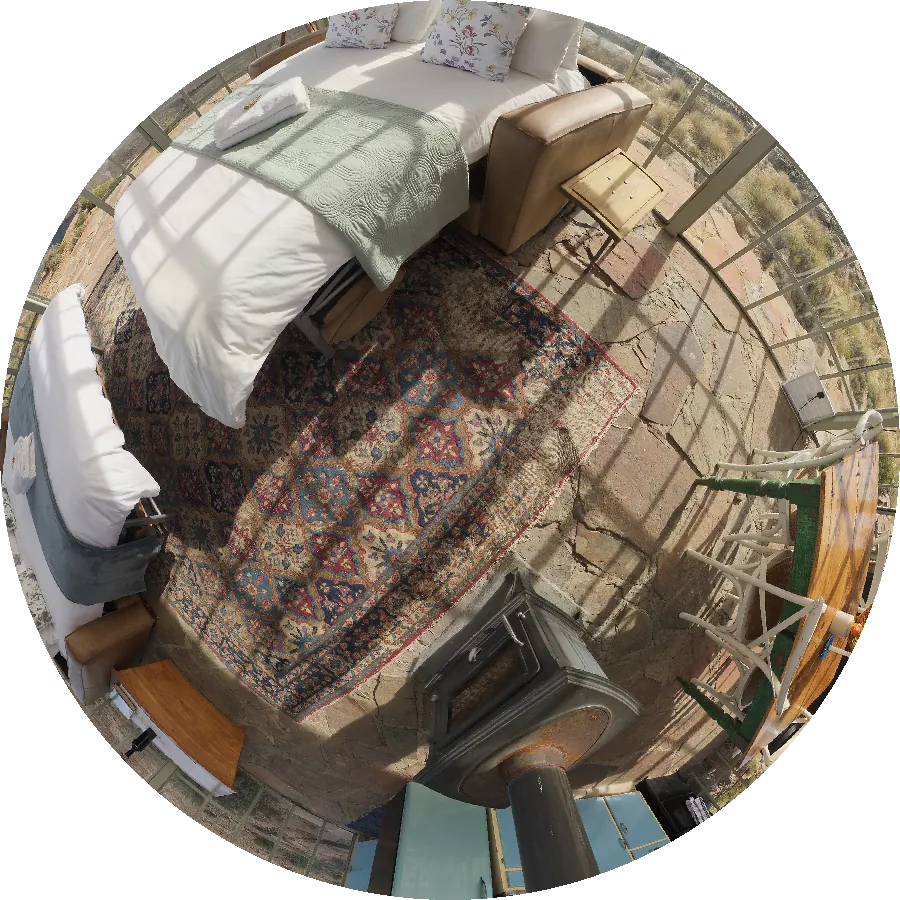
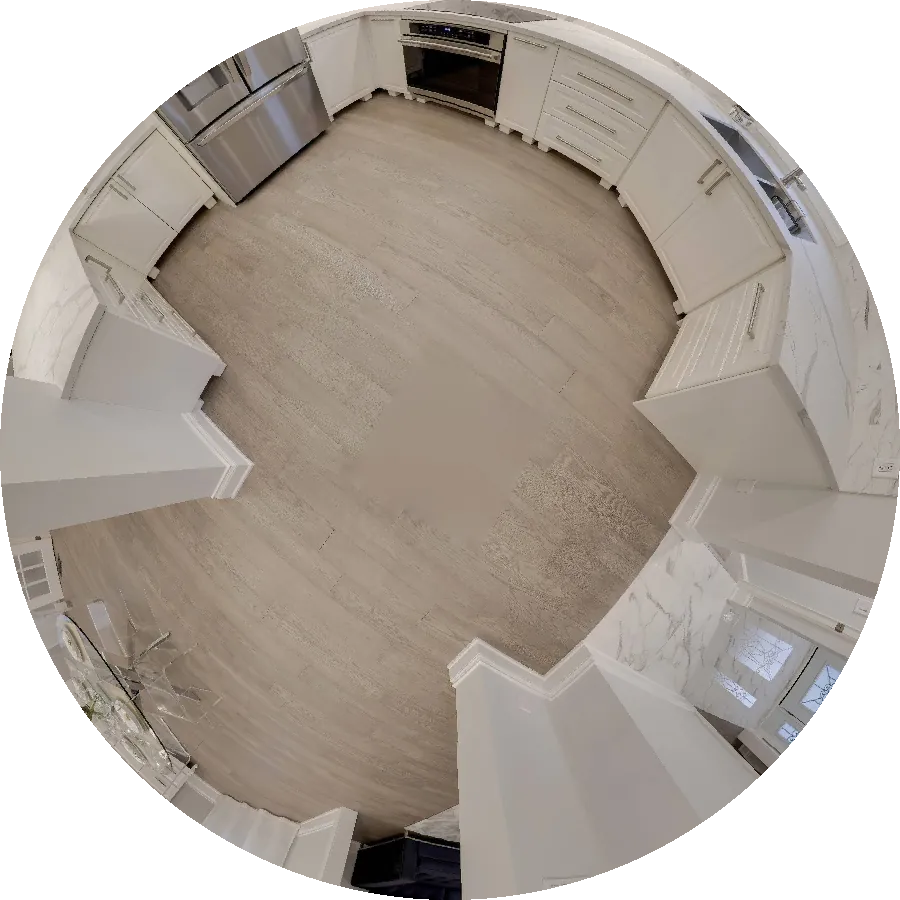
feat: hero uses a staged kitchen from the GoThru Real Estate tour
One house across the page: hero, connector demo, pipeline photo and the tour at the end.

diff --git a/index.html b/index.html
@@ -90,7 +90,7 @@ p{margin:0}
 .hud__cone{position:absolute;left:0;top:0;width:100%;height:50%;background:rgba(37,99,235,.55);clip-path:polygon(50% 100%,18% 0,82% 0)}
 .hud__dot{position:absolute;left:50%;top:50%;width:16px;height:16px;margin:-8px 0 0 -8px;border-radius:50%;background:#2563eb;box-shadow:0 0 0 3px #fff}
 .hud b{display:block;font-size:.9375rem}
-.hero__copy{position:absolute;z-index:3;left:clamp(24px,5vw,72px);bottom:clamp(28px,5vw,72px);width:min(640px,52%);color:#fff;pointer-events:none}
+.hero__copy{position:absolute;z-index:3;left:clamp(24px,5vw,72px);bottom:clamp(28px,5vw,72px);width:min(820px,56%);color:#fff;pointer-events:none}
 .hero__copy a{pointer-events:auto}
 .hero__badge{display:inline-flex;align-items:center;gap:10px;padding:7px 14px 7px 7px;border-radius:999px;font:600 .875rem/1 var(--text)}
 .hero__badge img{width:26px;height:26px;border-radius:8px}
@@ -284,7 +284,7 @@ footer{background:var(--ink);color:#fff;margin-top:clamp(88px,11vw,160px);paddin
 .mod__list .is-done .mod__ico{background:var(--teal-d);box-shadow:none}
 .mod__list .is-done .mod__ico::after{opacity:1;transform:rotate(45deg)}
 .mod__shot{position:relative;aspect-ratio:4/3;border-radius:var(--r-xl);overflow:hidden;background:#2b241c}
-.mod__shot img{width:100%;height:100%;object-fit:cover;object-position:0 50%}
+.mod__shot img{width:100%;height:100%;object-fit:cover;object-position:33% 50%}
 .mod__status{position:absolute;top:20px;left:20px;display:inline-flex;align-items:center;gap:10px;padding:12px 16px;border-radius:999px;background:#fff;font:700 .9375rem/1 var(--text);box-shadow:0 14px 30px -14px rgba(22,24,29,.5)}
 .mod__room{position:absolute;left:30%;top:52%;padding:10px 16px;border-radius:999px;background:var(--yellow);font:800 1.125rem/1 var(--display);letter-spacing:-.01em;opacity:0;transform:translateY(10px) scale(.96);transition:opacity .3s ease,transform .45s var(--ease-out)}
 .mod__shot[data-stage="3"] .mod__room,.mod__shot[data-stage="4"] .mod__room{opacity:1;transform:none}
@@ -391,16 +391,16 @@ footer{background:var(--ink);color:#fff;margin-top:clamp(88px,11vw,160px);paddin
       <div class="pano__track" id="pano-track">
         <div class="pano__copy">
           <img src="img/pano-home.webp" width="3840" height="797" alt="" draggable="false" fetchpriority="high">
-          <button class="hot" type="button" style="--x:.44;--y:.6" data-x=".44"><span>2</span><em>Photo 2 · Bedroom</em></button>
-          <button class="hot" type="button" style="--x:.81;--y:.62" data-x=".81"><span>3</span><em>Photo 3 · Dining</em></button>
-          <button class="hot" type="button" style="--x:.92;--y:.56" data-x=".92"><span>4</span><em>Photo 4 · Kitchen</em></button>
+          <button class="hot" type="button" style="--x:.13;--y:.62" data-x=".13"><span>2</span><em>Photo 2 · Dining room</em></button>
+          <button class="hot" type="button" style="--x:.42;--y:.62" data-x=".42"><span>3</span><em>Photo 3 · Kitchen</em></button>
+          <button class="hot" type="button" style="--x:.84;--y:.58" data-x=".84"><span>4</span><em>Photo 4 · Front hall</em></button>
         </div>
       </div>
       <div class="pano__scrim" aria-hidden="true"></div>
       <span class="pano__hint glass" id="pano-hint" aria-hidden="true"><svg viewBox="0 0 24 24" fill="none" stroke="currentColor" stroke-width="2" stroke-linecap="round" stroke-linejoin="round"><path d="M8 13V5.5a1.5 1.5 0 0 1 3 0V12m0-1.5v-2a1.5 1.5 0 0 1 3 0V12m0-1a1.5 1.5 0 0 1 3 0v1m0 0a1.5 1.5 0 0 1 3 0v3a6 6 0 0 1-6 6h-2a6 6 0 0 1-5-2.7L3.4 15a1.6 1.6 0 0 1 2.5-2L8 15"/></svg>Drag to look around</span>
       <div class="hud glass" aria-hidden="true">
         <div class="hud__disc"><img id="hud-img" src="img/lookdown-home.webp" width="900" height="900" alt=""><i class="hud__cone"></i><i class="hud__dot"></i></div>
-        <span>You are at photo 1<b id="hud-label">Facing the bed</b></span>
+        <span>You are at photo 1<b id="hud-label">Facing the dining room</b></span>
       </div>
       <div class="hero__copy">
         <span class="hero__badge glass" data-in><img src="img/brand/icon.webp" width="255" height="255" alt="">GoThru 360 Virtual Tour Maker</span>
@@ -469,7 +469,7 @@ footer{background:var(--ink);color:#fff;margin-top:clamp(88px,11vw,160px);paddin
         </ol>
       </div>
       <figure class="mod__shot" id="mod-shot" data-stage="0" data-rise style="--d:1">
-        <img src="img/tour-bedroom.webp" width="3072" height="638" loading="lazy" alt="A bedroom photo on its way through the pipeline">
+        <img src="img/pipeline-bedroom.webp" width="3072" height="638" loading="lazy" alt="A bedroom photo on its way through the pipeline">
         <span class="mod__status"><i class="dot" aria-hidden="true"></i><span id="mod-status">Received · 12 photos with GPS</span></span>
         <span class="mod__room" aria-hidden="true">Bedroom</span>
         <span class="mod__bar" aria-hidden="true"><i></i></span>
@@ -481,15 +481,15 @@ footer{background:var(--ink);color:#fff;margin-top:clamp(88px,11vw,160px);paddin
   <section class="try" id="try" aria-labelledby="try-h">
     <div>
       <h2 id="try-h" class="h2" data-rise>Line it up.<br><span class="c-yellow">Try it here.</span></h2>
-      <p class="lead" data-rise style="--d:1">Each 360 photo is shown from above, floor in the middle. Drag the top photo until the carpet runs along the blue line. That is a connection.</p>
-      <p class="try__status" aria-live="polite" data-rise style="--d:2"><i></i><span id="status">Drag photo 1 to line up the carpet.</span></p>
+      <p class="lead" data-rise style="--d:1">Each 360 photo is shown from above, floor in the middle. Drag the top photo until the hallway runs along the blue line. That is a connection.</p>
+      <p class="try__status" aria-live="polite" data-rise style="--d:2"><i></i><span id="status">Drag photo 1 to line up the hallway.</span></p>
       <div class="try__ctrls" data-rise style="--d:3">
         <button class="btn btn--paper" id="switch" type="button">Switch image</button>
         <button class="btn btn--paper" id="reset" type="button">Start over</button>
         <label for="rot">Rotate photo <span id="rot-n">1</span><output id="rot-val" for="rot">74°</output></label>
         <input type="range" id="rot" min="-180" max="180" step="1" value="74">
       </div>
-      <p class="try__note">A working copy of the app's 360 Image Connector. Both photos use one public panorama, credited below.</p>
+      <p class="try__note">A working copy of the app's 360 Image Connector. Both photos use one panorama from the GoThru tour below.</p>
     </div>
     <div class="app" data-rise style="--d:1">
       <div class="phone"><div class="phone__screen">
@@ -501,8 +501,8 @@ footer{background:var(--ink);color:#fff;margin-top:clamp(88px,11vw,160px);paddin
         <div class="app__dist"><div><label for="dist">Distance</label><output id="dist-val" for="dist">3 m</output></div><input type="range" id="dist" min="1" max="12" value="3"></div>
         <div class="app__plane" id="plane">
           <div class="app__line" aria-hidden="true"></div>
-          <div class="disc is-top"><img src="img/lookdown-lounge.webp" width="900" height="900" alt="Photo 1 of a living room, seen from above"><span class="node" aria-hidden="true">1</span></div>
-          <div class="disc"><img src="img/lookdown-lounge.webp" width="900" height="900" alt="Photo 2 of a living room, seen from above"><span class="node" aria-hidden="true">2</span></div>
+          <div class="disc is-top"><img src="img/lookdown-hall.webp" width="900" height="900" alt="Photo 1 of a kitchen and hallway, seen from above"><span class="node" aria-hidden="true">1</span></div>
+          <div class="disc"><img src="img/lookdown-hall.webp" width="900" height="900" alt="Photo 2 of a kitchen and hallway, seen from above"><span class="node" aria-hidden="true">2</span></div>
         </div>
         <p class="app__hint">Drag each image so the path lines up on the blue line.</p>
         <button class="btn app__save" id="save" type="button" disabled>Save Connection</button>
@@ -652,7 +652,7 @@ footer{background:var(--ink);color:#fff;margin-top:clamp(88px,11vw,160px);paddin
     </div>
     <div class="legal">
       <span>© 2026 GoThru Media Inc. All rights reserved.</span>
-      <span>Demo panoramas from <a href="https://polyhaven.com/hdris">Poly Haven</a>, <a href="https://creativecommons.org/publicdomain/zero/1.0/">CC0</a>: “Glasshouse Interior” by Dario Barresi; “Lythwood Lounge” and “Lythwood Room” by Greg Zaal. Real Estate tour: “Marketing Real Estate” on GoThru.</span>
+      <span>All panoramas on this page come from the GoThru Real Estate tour <a href="https://tourmkr.com/F1kw9NgwSv/34728666p&amp;292.89h&amp;90t">“Marketing Real Estate”</a>.</span>
     </div>
   </div>
 </footer>
@@ -714,7 +714,7 @@ footer{background:var(--ink);color:#fff;margin-top:clamp(88px,11vw,160px);paddin
 
   // hero: the HUD disc follows the heading
   const hud=document.getElementById('hud-img'), hudLabel=document.getElementById('hud-label');
-  const names=[[0,'Facing the kitchen'],[.2,'Facing the window seat'],[.44,'Facing the bed'],[.62,'Facing the valley'],[.81,'Facing the dining table'],[1,'Facing the kitchen']];
+  const names=[[0,'Facing the living room'],[.13,'Facing the dining room'],[.38,'Facing the kitchen'],[.6,'Facing the sink'],[.84,'Facing the front hall'],[1,'Facing the living room']];
   viewer(document.getElementById('pano'),{hint:document.getElementById('pano-hint'),onTurn:u=>{
     hud.style.transform=`rotate(${-(u-.5)*360}deg)`;
     hudLabel.textContent=names.reduce((a,b)=>Math.abs(b[0]-u)<Math.abs(a[0]-u)?b:a)[1];
@@ -745,7 +745,7 @@ footer{background:var(--ink);color:#fff;margin-top:clamp(88px,11vw,160px);paddin
   const dist=document.getElementById('dist'), distVal=document.getElementById('dist-val');
   const status=document.getElementById('status'), save=document.getElementById('save');
   const START=[74,-38]; let angle=[...START], top=0, saved=false;
-  // photo 1's carpet must point down (0deg), photo 2's must point up (180deg) to face it
+  // photo 1's hallway must point down (0deg), photo 2's must point up (180deg) to face it
   const target=i=>i?180:0, norm=a=>((a%360)+540)%360-180;
   const paint=i=>discs[i].querySelector('img').style.transform=`rotate(${angle[i]+target(i)}deg)`;
   function layout(){
@@ -763,7 +763,7 @@ footer{background:var(--ink);color:#fff;margin-top:clamp(88px,11vw,160px);paddin
     status.textContent= saved?`Saved: photo 1 to photo 2, ${dist.value} m. That is how tours are built.`
       : ok?'Lined up. Tap Save Connection.'
       : Math.abs(off[top])<6?`Photo ${top+1} is lined up. Switch image to turn photo ${2-top}.`
-      : `Drag photo ${top+1} to line up the carpet.`;
+      : `Drag photo ${top+1} to line up the hallway.`;
     layout();
   }
   rot.addEventListener('input',()=>{angle[top]=+rot.value;saved=false;check()});

diff --git a/README.md b/README.md
@@ -2,5 +2,4 @@
 
 Design preview for client review. Not the official site.
 
-Demo panoramas from Poly Haven, CC0: "Glasshouse Interior" by Dario Barresi; "Lythwood Lounge" and "Lythwood Room" by Greg Zaal.
-Real Estate tour: "Marketing Real Estate" on GoThru (tourmkr.com).
+All panoramas come from the GoThru Real Estate tour "Marketing Real Estate" (tourmkr.com/F1kw9NgwSv).
